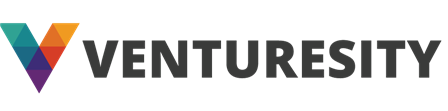
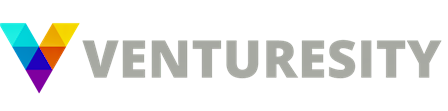
navbar color scheme change

Changed region(s): [[0.1875, 0.3514, 1.0, 0.7027], [0.0, 0.1892, 0.1875, 0.8378]]

diff --git a/sass/components/_head.scss b/sass/components/_head.scss
@@ -12,7 +12,7 @@
         right: 0;
         top: 0;
         z-index: 999;
-        background: rgba(255,255,255,0.5);
+        background: rgba(0,0,0,0.5);
         box-shadow: 0 1rem 3rem -.5rem rgba(0,0,0,0.5);
 
         &__elems{
@@ -32,12 +32,38 @@
                 font-size: 1.5rem;
                 text-align: center;
                 cursor: pointer;
-
+                color: var(--color-white);
 
                 &:hover{
-                    background-color: var(--color-secondary);
+                    background-color: #E59600;
                     transition: all .3s linear;
+                    //color: var(--color-primary);
                 }
+            }
+        }
+    }
+    &__logos{
+        display: flex;
+        img{
+            position: relative;
+            display:block;
+            float:left;
+            padding:0;
+            margin:0;
+        }
+        &--logo1{
+            img{
+                margin-left: 15px;
+                margin-top: 3px;
+                width:auto;
+                height: 43px;
+            }
+        }
+        &--logo2{
+            img{
+                margin-top: 7px;
+                width:auto;
+                height: 32px;
             }
         }
     }

diff --git a/index.html b/index.html
@@ -22,12 +22,16 @@
                 <a href="#Sponsors"><div class="head__nav__elems--name">Sponsors</div></a>
             </div>
             <div class="mobilenav">
-                <img src="assets/H3.png" alt="" class="mobilenav__logo">
+                <div class="mobilenav__logos--logo1"><img src="assets/KJSCE_HACKATHON.png" alt=""></div>
+                <div class="mobilenav__logos--logo2"><img src="assets/Logo.png" alt=""></div>
                 <label for="hamburger" class="mobilenav__hamburger">☰</label>
             </div>
 
             <div class="head__nav">
-                <div class="head__nav__elems--logo"><img src="assets/H3.png" alt=""></div>
+                <div class="head__logos">
+                    <div class="head__logos--logo1"><img src="assets/KJSCE_HACKATHON.png" alt=""></div>
+                    <div class="head__logos--logo2"><img src="assets/Logo.png" alt=""></div>
+                </div>
                 <div class="head__nav__elems">
                     <a href="#Home"><div class="head__nav__elems--name">Home</div></a>
                     <a href="#About"><div class="head__nav__elems--name">About</div></a>

diff --git a/sass/components/_mobilenav.scss b/sass/components/_mobilenav.scss
@@ -3,22 +3,42 @@
 }
 .mobilenav{
     display: none;
-    background-color: var(--color-white);
+    background-color:rgba(0,0,0,0.5);
     z-index: 999;
 
     &__hamburger{
         margin-right: 10px;
         font-size: 3rem;
+        color: var(--color-white);
     }
 
     &__elems{
         display: none;
-        background-color: var(--color-white);
+        background-color: rgba(0,0,0,0.7);
         position: fixed;
         z-index: 999;
         top: 50px;
         left: 0;
         right: 0;
+    }
+    &__logos{
+        img{
+            position: relative;
+            float:left;
+        }
+        &--logo1{
+            img{
+                margin-left: 10px;
+                width:auto;
+                height:35px;
+            }
+        }
+        &--logo2{
+            img{
+                width:auto;
+                height:25px;
+            }
+        }
     }
 }
 

diff --git a/sass/components/_schedulebox.scss b/sass/components/_schedulebox.scss
@@ -30,7 +30,7 @@
             height: 30rem;
             margin: 2rem auto;
             padding: 1.5rem 1.5rem 0 1.5rem; // border: .05rem solid var(--color-gray);
-            border-radius: 5px;
+            border-radius: 10px;
             border: .2rem solid var(--color-tertiary-dark);
             background-color: rgba(0, 0, 0, 0.5); // box-shadow: -.15rem .25rem .6rem -0.2rem #222;
             min-width: 280px;

diff --git a/sass/components/faq.scss b/sass/components/faq.scss
@@ -14,7 +14,7 @@ $back: #FFFFFF;
   padding-bottom:80px;
   background-color:rgba(0, 0, 0, 0.5);
   border: .2rem solid var(--color-tertiary-dark);
-  border-radius: 5px;
+  border-radius: 10px;
   // box-shadow: -.15rem .25rem .6rem -0.2rem #222;
   // text-align:center;
   margin: 0 auto 50px auto;

diff --git a/sass/base/_base.scss b/sass/base/_base.scss
@@ -11,7 +11,7 @@
     --color-primary-dark: #b33771;
     --color-secondary: #0062c5;
     --color-secondary-light: #1b9cfc;
-    --color-tertiary: #ffa700;
+    --color-tertiary:#ffa700;
     --color-tertiary-dark: #b37500;
     --color-white: #fff;
     --color-black: #222;

diff --git a/sass/components/_stats.scss b/sass/components/_stats.scss
@@ -28,7 +28,7 @@
 .counter {
   padding: 20px 0;
   color: rgba(255,255,255,1);
-  border-radius: 5px;
+  border-radius: 10px;
 }
 .count-title {
   font-size: 40px; font-weight: normal; 
